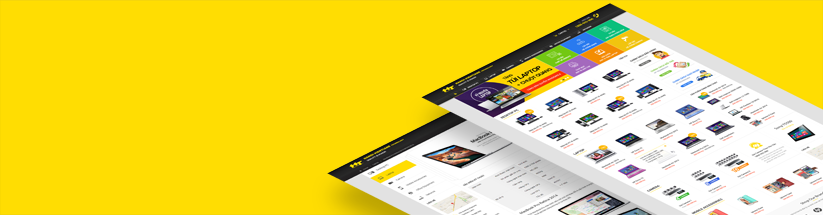
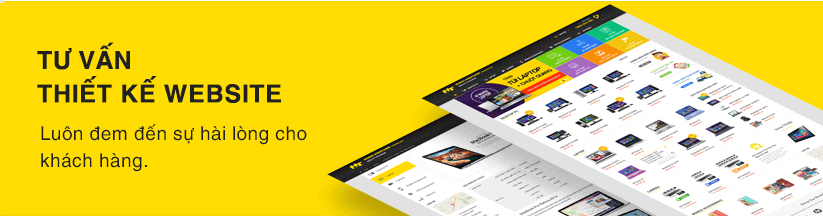
add css

diff --git a/HaNoi_VIETINANE/services.html b/HaNoi_VIETINANE/services.html
@@ -3,19 +3,20 @@
 <head>
     <meta charset="UTF-8">
     <meta name="viewport" content="width=device-width, initial-scale=1.0">
+    <link rel="stylesheet" href="./css/service.css">
     <title>HaNoi-VIENTIANE</title>
 </head>
 <body>
     <div id="wapper">
         <div id="header" class="header">
-            <div class="header-top-wapper">
+            <div class="header-top-wrapper">
                 <div class="container header-top">
-                    <div class="header-top-right">
+                    <div class="header-top-left">
                         <div class="logo">
                             <h1><a href="#" title="Ha Noi Vietiane Technology">Ha Noi Vietiane Technology</a></h1>
                         </div>
                     </div>
-                    <div class="header-top-left">
+                    <div class="header-top-right">
                         <div class="cart">
                             <div class="cart-icon">
                                 <img src="./images/CART-icon.png" alt="Cart">
@@ -25,29 +26,38 @@
                             </div>
                         </div>
                         <div class="hotline">
-                            <div class="hotline-title">
-                                <p>HOTLINE</p>
-                            </div>
-                            <div class="hotline-number">
-                                <a href="#">1800-955-966</a>
-                            </div>
-                            <div class="hotline-icon">
-                                <img src="./images/phone-call.png" alt="hotline">
+                            <div class="hotline-info">
+                                <div class="hotline-title">
+                                    <div class="notice">
+                                        <a href="#">&#33;</a>
+                                    </div>
+                                    <div class="hot-title">
+                                        <p>HOTLINE</p>
+                                    </div>
+                                </div>
+                                <div class="hotline-number">
+                                    <a href="#">1800-955-966</a>
+                                </div>
+                                <div class="hotline-icon">
+                                    <img src="./images/phone-call.png" alt="hotline">
+                                </div>
                             </div>
                         </div>
                     </div>    
                 </div>
             </div>
-            <div class="container header-navbar">
-                <ul class="navigation-list">
-                    <li class="home">&#32;</li>
-                    <li class="desktop-pc">DESKTOP PC</li>
-                    <li class="laptop">LAPTOP</li>
-                    <li class="camera">CAMERA</li>
-                    <li class="mobile">MOBILE ACCESSORIES</li>
-                    <li class="office">OFFICE EQUIPMENT</li>
-                    <li class="network">NETWORK</li>
-                </ul>
+            <div class="header-navbar">
+                <div class="container">
+                    <ul class="navigation-list">
+                        <li class="home"><a href="#">&nbsp;</a> </li>
+                        <li class="desktop-pc"><a href="#">DESKTOP PC</a> </li>
+                        <li class="laptop"><a href="#">LAPTOP</a> </li>
+                        <li class="camera"><a href="#">CAMERA</a> </li>
+                        <li class="mobile"><a href="#">MOBILE ACCESSORIES</a> </li>
+                        <li class="office"><a href="#">OFFICE EQUIPMENT</a> </li>
+                        <li class="network"><a href="#">NETWORK</a> </li>
+                    </ul>
+                </div>
             </div>
         </div>
         <div class="main">
@@ -67,12 +77,7 @@
                 <div class="main-inner">
                     <div class="main-content">
                         <div class="main-banner">
-                            <div class="title-banner">
-                                <p>TƯ VẤN THIẾT KẾ WEBSIDE</p>
-                            </div>
-                            <div class="sologan-banner">
-                                <p>Luôn đem đến sự hài lòng cho khách hàng</p>
-                            </div>
+                            <img src="./images/banner_1.png" alt="banner">
                         </div>
                         <div class="main-title">
                             <h2 class="main-paragraph-title">Thiết kế webside</h2>
@@ -188,9 +193,32 @@
                     </div>
                     <div class="footer-right">
                         <div class="social-network">
-                            
+                            <h3>THEO DÕI CHÚNG TÔI TRÊN MẠNG XÃ HỘI</h3>
+                            <ul>
+                                <li class="facebook"><a href="#"><img src="./images/facebook.png" alt="facebook"></a></li>
+                                <li class="twitter"><a href="#"><img src="./images/twitter.png" alt="twitter"></a></li>
+                                <li class="google"><a href="#"><img src="./images/google.png" alt="google"></a></li>
+                                <li class="youtube"><a href="#"><img src="./images/youtube.png" alt="youtube"></a></li>
+                            </ul>
+                        </div>
+                        <div class="mail">
+                            <h3>NHẬN EMAIL KHUYẾN MÃI</h3>
+                            <div class="input-mail">
+                                <form action="#" method="get">
+                                    <input type="text" name="mail" id="" placeholder="Nhập email của bạn...">
+                                    <input type="button" value="">
+                                </form>
+                            </div>
                         </div>
                     </div>
+                </div>
+            </div>
+            <div class="container footer-copyright">
+                <div class="footer-copyright-left">
+                    <p>COPYRIGHT &copy; 2014 &#8211; HT TECHNOLOGY</p>
+                </div>
+                <div class="footer-copyright-right">
+                    <p>DESIGN BY HT TECHNOLOGY</p>
                 </div>
             </div>
         </div>

diff --git a/HaNoi_VIETINANE/css/service.css b/HaNoi_VIETINANE/css/service.css
@@ -1,0 +1,128 @@
+*{
+    box-sizing: border-box;
+}
+ul{
+    list-style: none;
+}
+a{
+    text-decoration: none;
+    color: #ffff;
+}
+body{
+    font-family: Arial;
+    font-size: 13px;
+    padding: 0;
+    margin: 0;
+}
+.container{
+    width: 1170px;
+    margin: 0 auto 0 auto;
+}
+.header-top-wrapper{
+    background: url(/images/header-top-bg.png) no-repeat;
+    background-size: cover;
+    height: 100%;
+    -webkit-background-size: cover;
+    -moz-background-size: cover;
+    border-top: 2px solid #fddd13;
+    overflow: hidden;
+    padding-top: 18px;
+}
+.logo{
+    background: url(/images/logo.png);
+    float: left;
+    display: block;
+    position: relative;
+    text-indent: -99999px;
+    width: 389px;
+    height: 39px;
+    overflow: hidden;
+}
+.logo h1{
+    margin: 0;
+}
+.header-top-right::before,
+.header-top-right::after{
+    content: '';
+    display: table;
+}
+.header-top-right::after{
+    clear: both;
+}
+.header-top-right{
+    float: right;
+}
+.cart{
+    float: left;
+    padding-top: 10px;
+}
+.cart-icon{
+    float: left;
+}
+.cart-number{
+    float: right;
+    color: #ffffff;
+}
+.hotline{
+    float: right;
+    color: #a9a9a9;
+    font-weight: bold;
+    text-align: right;
+}
+.hotline-info{
+    float: left;
+}
+.notice {
+    background: #2f2f2f;
+    text-align: center;
+    height: 18px;
+    width: 18px;
+    border-radius: 10px;
+    float: left;
+}
+.notice a{
+    color: #545454;
+}
+.hot-title p{
+    float: right;
+    color: #646464;
+}
+.hotline-number a{
+    font-size: 19.65px;
+    color: #ffdd02;
+}
+.hotline-icon{
+    float: right;
+}
+.header-navbar{
+    background: url(/images/top-nav-bg.png) no-repeat;
+    background-size: cover;
+    height: 100%;
+}
+.navigation-list li{
+    display: inline;
+    border-right: 1px solid #020202 ;
+}
+
+.navigation-list{
+    margin: 0;
+    padding: 12px 0px 15px 0px;
+}
+.navigation-list .home{
+    background: url(/images/home.png) no-repeat;
+}
+.navigation-list .desktop-pc{
+    background: url(/images/computer-icon.png) no-repeat;
+}
+.navigation-list .laptop{
+    background: url(/images/camera-icon.png) no-repeat;
+}
+.navigation-list .mobile{
+    background: url(/images/mobile-icon.png) no-repeat;
+}
+.navigation-list .office{
+    background: url(/images/print-icon.png) no-repeat;
+}
+.navigation-list .network{
+    background: url(/images/wifi-router-icon.png) no-repeat;
+}
